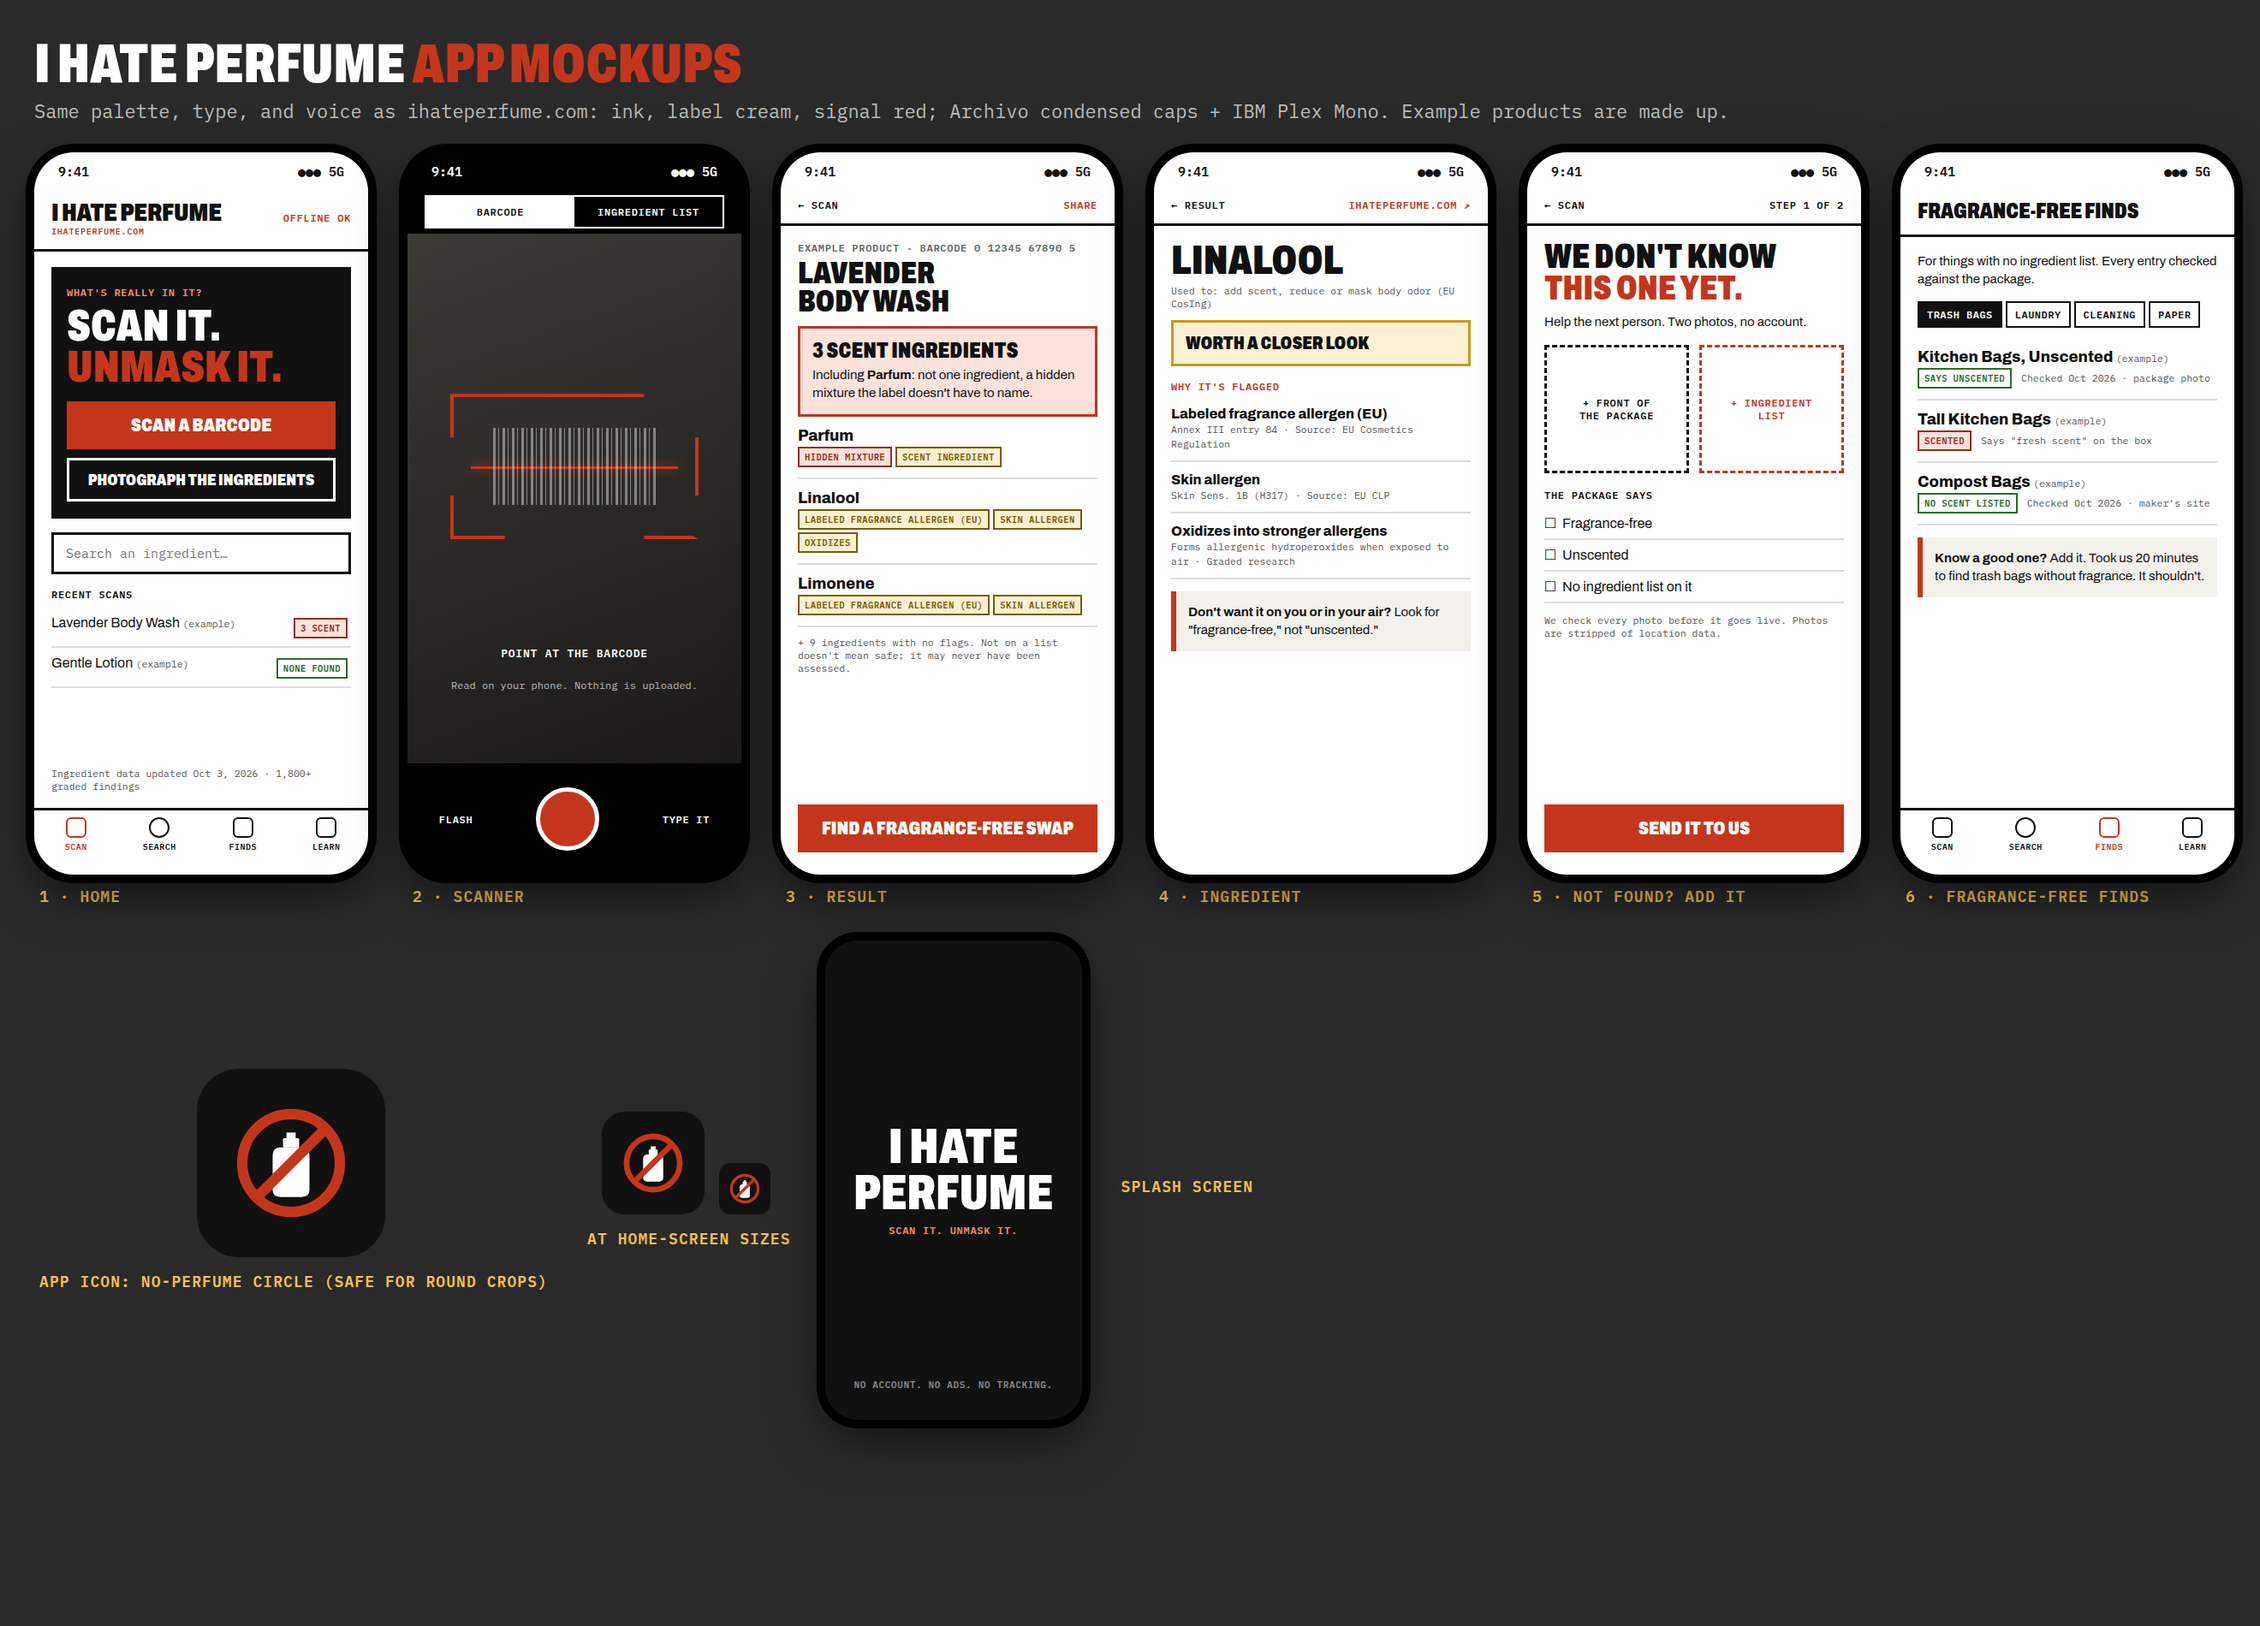
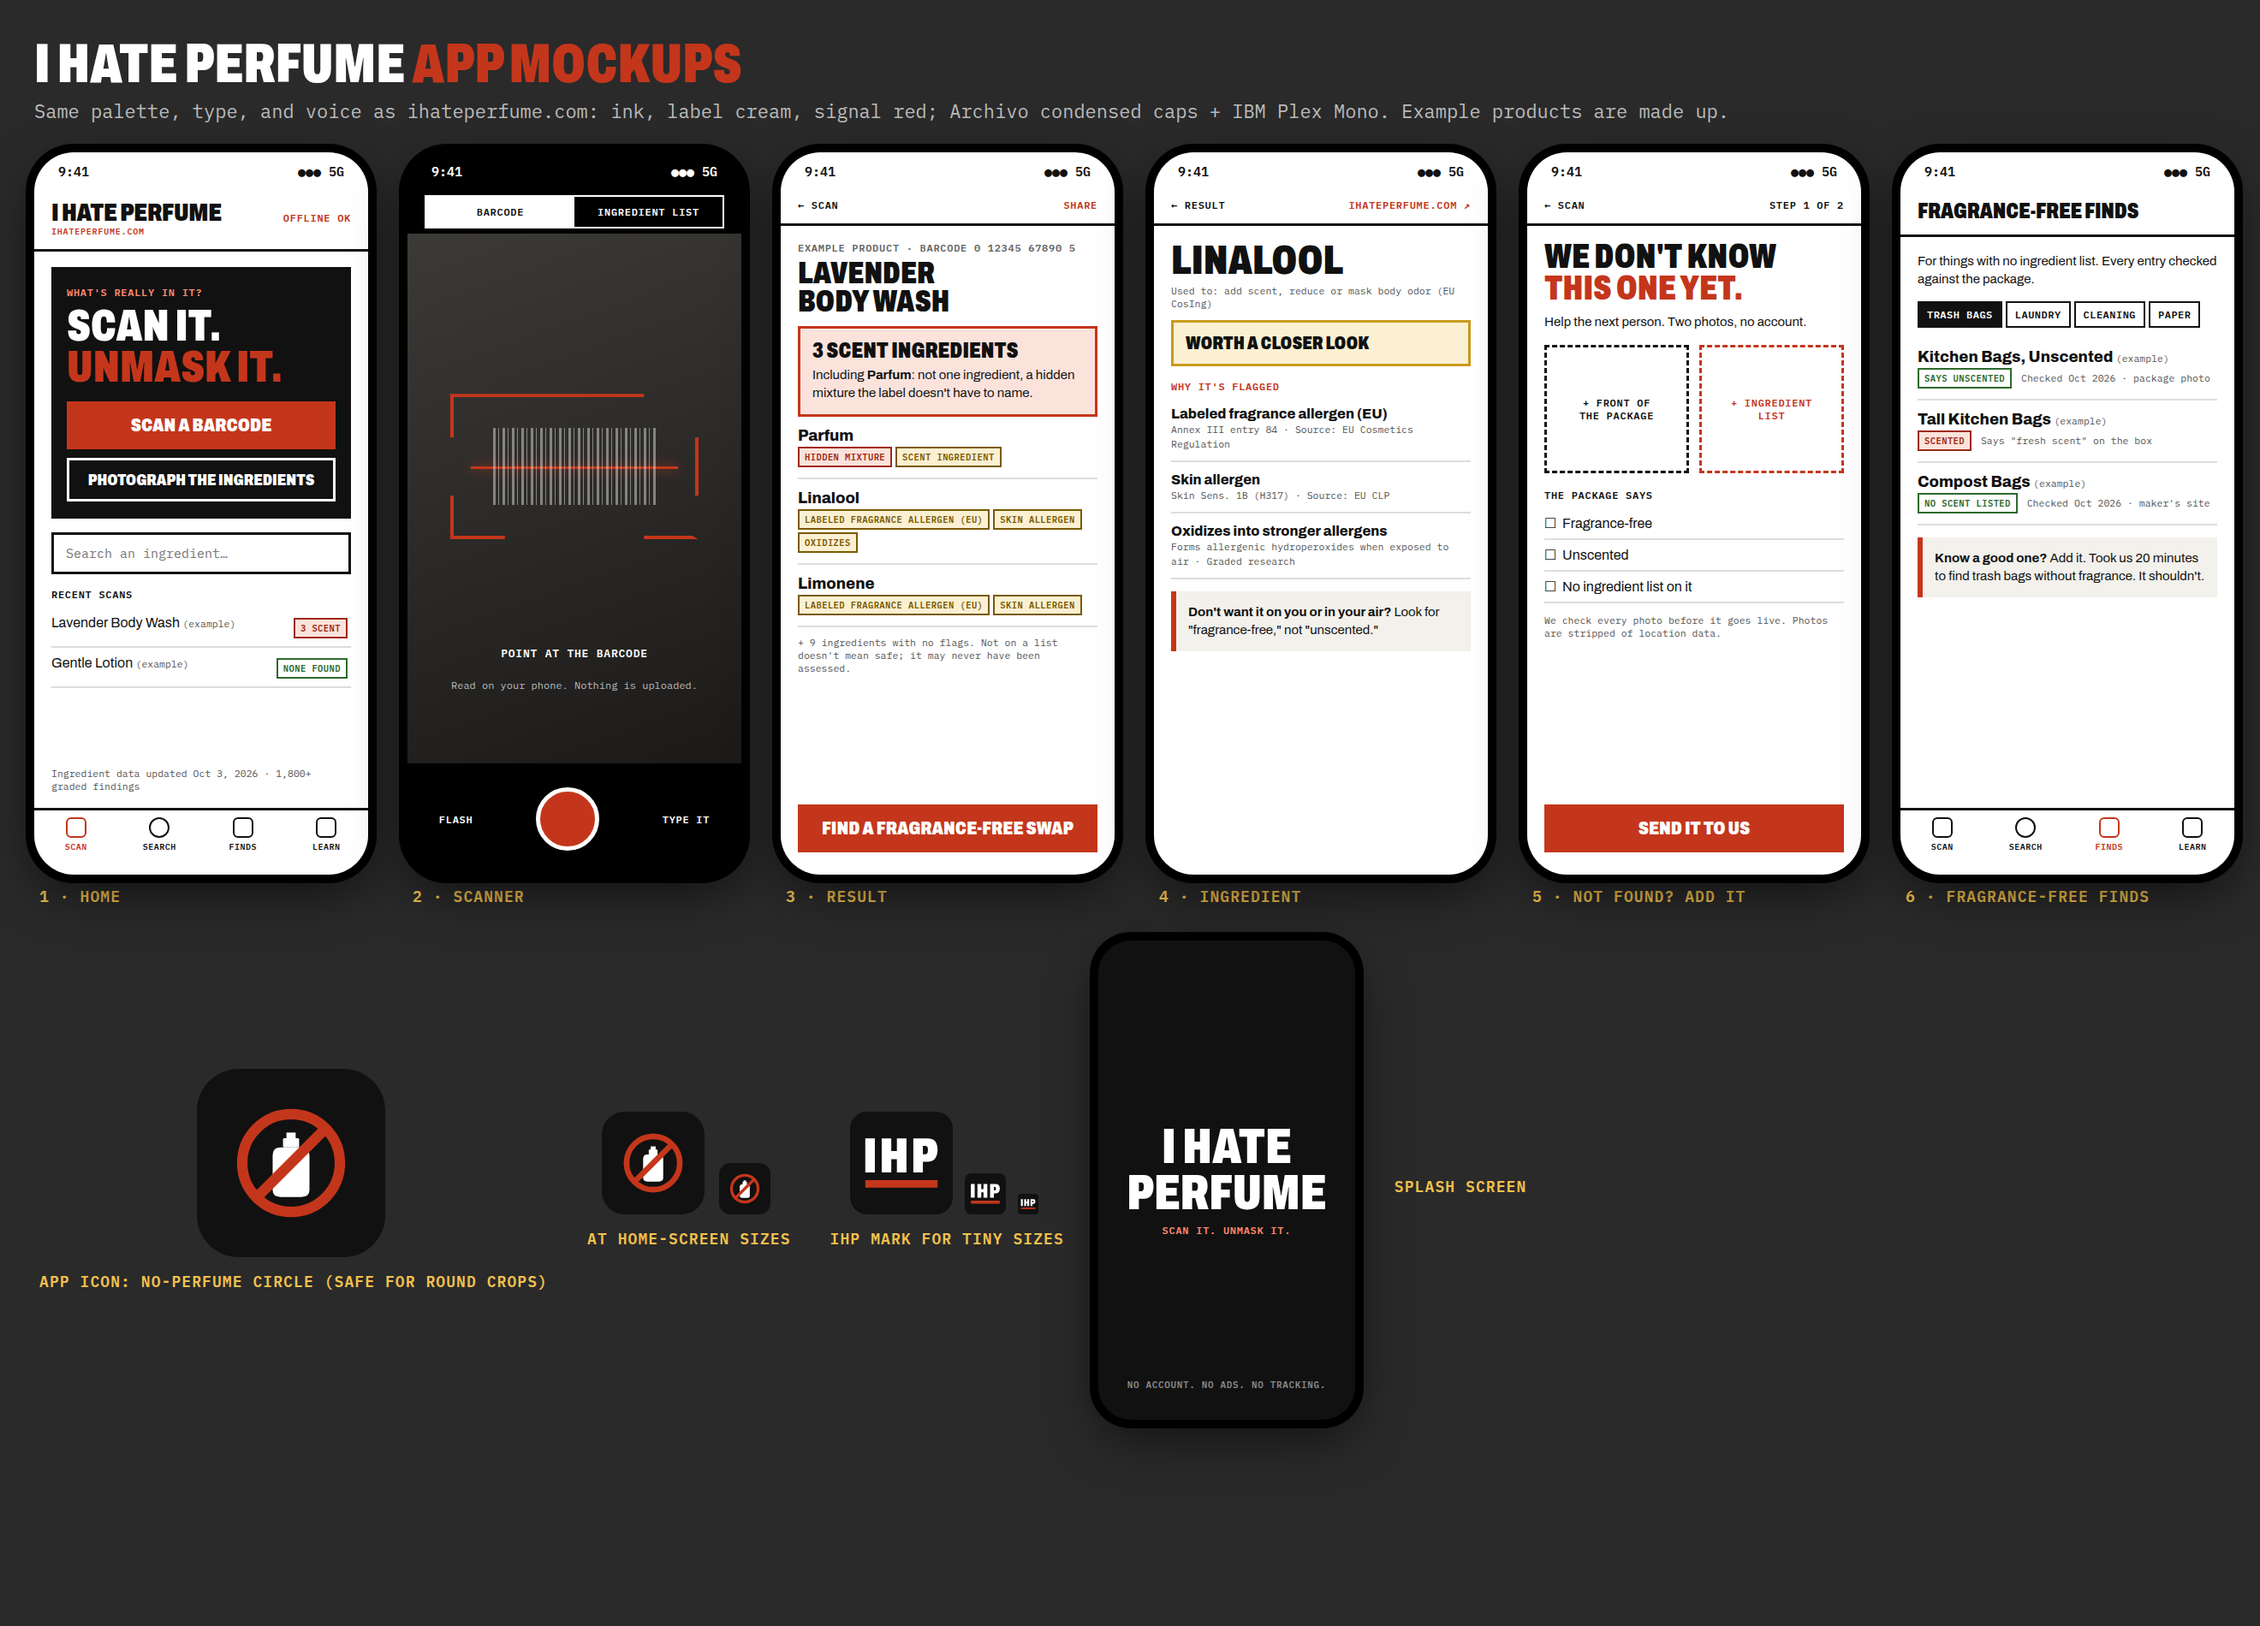
Small IHP mark for tiny sizes (Archivo condensed black outlines over a red rule; 16-512 px PNGs) and in the mockups

Changed region(s): [[0.3417, 0.5589, 0.6523, 0.9005]]

diff --git a/design/mockups.html b/design/mockups.html
@@ -159,6 +159,19 @@ h1.page{font-weight:900;font-stretch:72%;text-transform:uppercase;color:#fff;fon
    <svg width="120" height="120" viewBox="0 0 108 108"><rect width="108" height="108" rx="24" fill="#111"/><circle cx="54" cy="54" r="28" fill="none" stroke="#C4361B" stroke-width="6"/><g fill="#fff" transform="translate(54 55) scale(.66) translate(-54 -54)"><rect x="47" y="31" width="14" height="8" rx="1"/><rect x="50" y="26" width="8" height="6"/><path d="M38 46 Q38 39 45 39 H63 Q70 39 70 46 V76 Q70 82 63 82 H45 Q38 82 38 76Z"/></g><line x1="34.2" y1="73.8" x2="73.8" y2="34.2" stroke="#C4361B" stroke-width="6"/></svg>
    <svg width="60" height="60" viewBox="0 0 108 108" style="margin-left:14px"><rect width="108" height="108" rx="24" fill="#111"/><circle cx="54" cy="54" r="28" fill="none" stroke="#C4361B" stroke-width="6"/><g fill="#fff" transform="translate(54 55) scale(.66) translate(-54 -54)"><rect x="47" y="31" width="14" height="8" rx="1"/><rect x="50" y="26" width="8" height="6"/><path d="M38 46 Q38 39 45 39 H63 Q70 39 70 46 V76 Q70 82 63 82 H45 Q38 82 38 76Z"/></g><line x1="34.2" y1="73.8" x2="73.8" y2="34.2" stroke="#C4361B" stroke-width="6"/></svg>
    <p class="cap" style="width:auto;text-align:center">At home-screen sizes</p></div>
+ <div style="text-align:center">
+  <svg width="120" height="120" viewBox="0 0 108 108"><rect width="108" height="108" rx="18" fill="#111"/>
+<g fill="#fff"><path transform="translate(13.44 63.94) scale(0.05216 -0.05216)" d="M49 0V688H242V0Z"/><path transform="translate(30.71 63.94) scale(0.05216 -0.05216)" d="M49 0V688H242V430H355V688H548V0H355V268H242V0Z"/><path transform="translate(63.94 63.94) scale(0.05216 -0.05216)" d="M49 0V688H348Q413 688 455.0 659.0Q497 630 517.5 578.0Q538 526 538 457Q538 385 516.5 331.0Q495 277 452.5 246.5Q410 216 346 216H242V0ZM242 368H298Q324 368 333.5 391.5Q343 415 343 452Q343 477 339.5 495.0Q336 513 326.0 523.5Q316 534 298 534H242Z"/></g>
+<rect x="16.00" y="71.94" width="76.00" height="8" fill="#C4361B"/>
+</svg><svg width="48" height="48" viewBox="0 0 108 108" style="margin-left:14px"><rect width="108" height="108" rx="18" fill="#111"/>
+<g fill="#fff"><path transform="translate(13.44 63.94) scale(0.05216 -0.05216)" d="M49 0V688H242V0Z"/><path transform="translate(30.71 63.94) scale(0.05216 -0.05216)" d="M49 0V688H242V430H355V688H548V0H355V268H242V0Z"/><path transform="translate(63.94 63.94) scale(0.05216 -0.05216)" d="M49 0V688H348Q413 688 455.0 659.0Q497 630 517.5 578.0Q538 526 538 457Q538 385 516.5 331.0Q495 277 452.5 246.5Q410 216 346 216H242V0ZM242 368H298Q324 368 333.5 391.5Q343 415 343 452Q343 477 339.5 495.0Q336 513 326.0 523.5Q316 534 298 534H242Z"/></g>
+<rect x="16.00" y="71.94" width="76.00" height="8" fill="#C4361B"/>
+</svg><svg width="24" height="24" viewBox="0 0 108 108" style="margin-left:14px"><rect width="108" height="108" rx="18" fill="#111"/>
+<g fill="#fff"><path transform="translate(13.44 63.94) scale(0.05216 -0.05216)" d="M49 0V688H242V0Z"/><path transform="translate(30.71 63.94) scale(0.05216 -0.05216)" d="M49 0V688H242V430H355V688H548V0H355V268H242V0Z"/><path transform="translate(63.94 63.94) scale(0.05216 -0.05216)" d="M49 0V688H348Q413 688 455.0 659.0Q497 630 517.5 578.0Q538 526 538 457Q538 385 516.5 331.0Q495 277 452.5 246.5Q410 216 346 216H242V0ZM242 368H298Q324 368 333.5 391.5Q343 415 343 452Q343 477 339.5 495.0Q336 513 326.0 523.5Q316 534 298 534H242Z"/></g>
+<rect x="16.00" y="71.94" width="76.00" height="8" fill="#C4361B"/>
+</svg>
+  <p class="cap" style="width:auto;text-align:center">IHP mark for tiny sizes</p></div>
+
  </div>
  <div class="phone" style="background:var(--ink);justify-content:center;align-items:center;height:560px;width:300px;border-radius:38px">
   <p class="big" style="color:#fff;font-size:58px;text-align:center">I Hate<br>Perfume</p>
